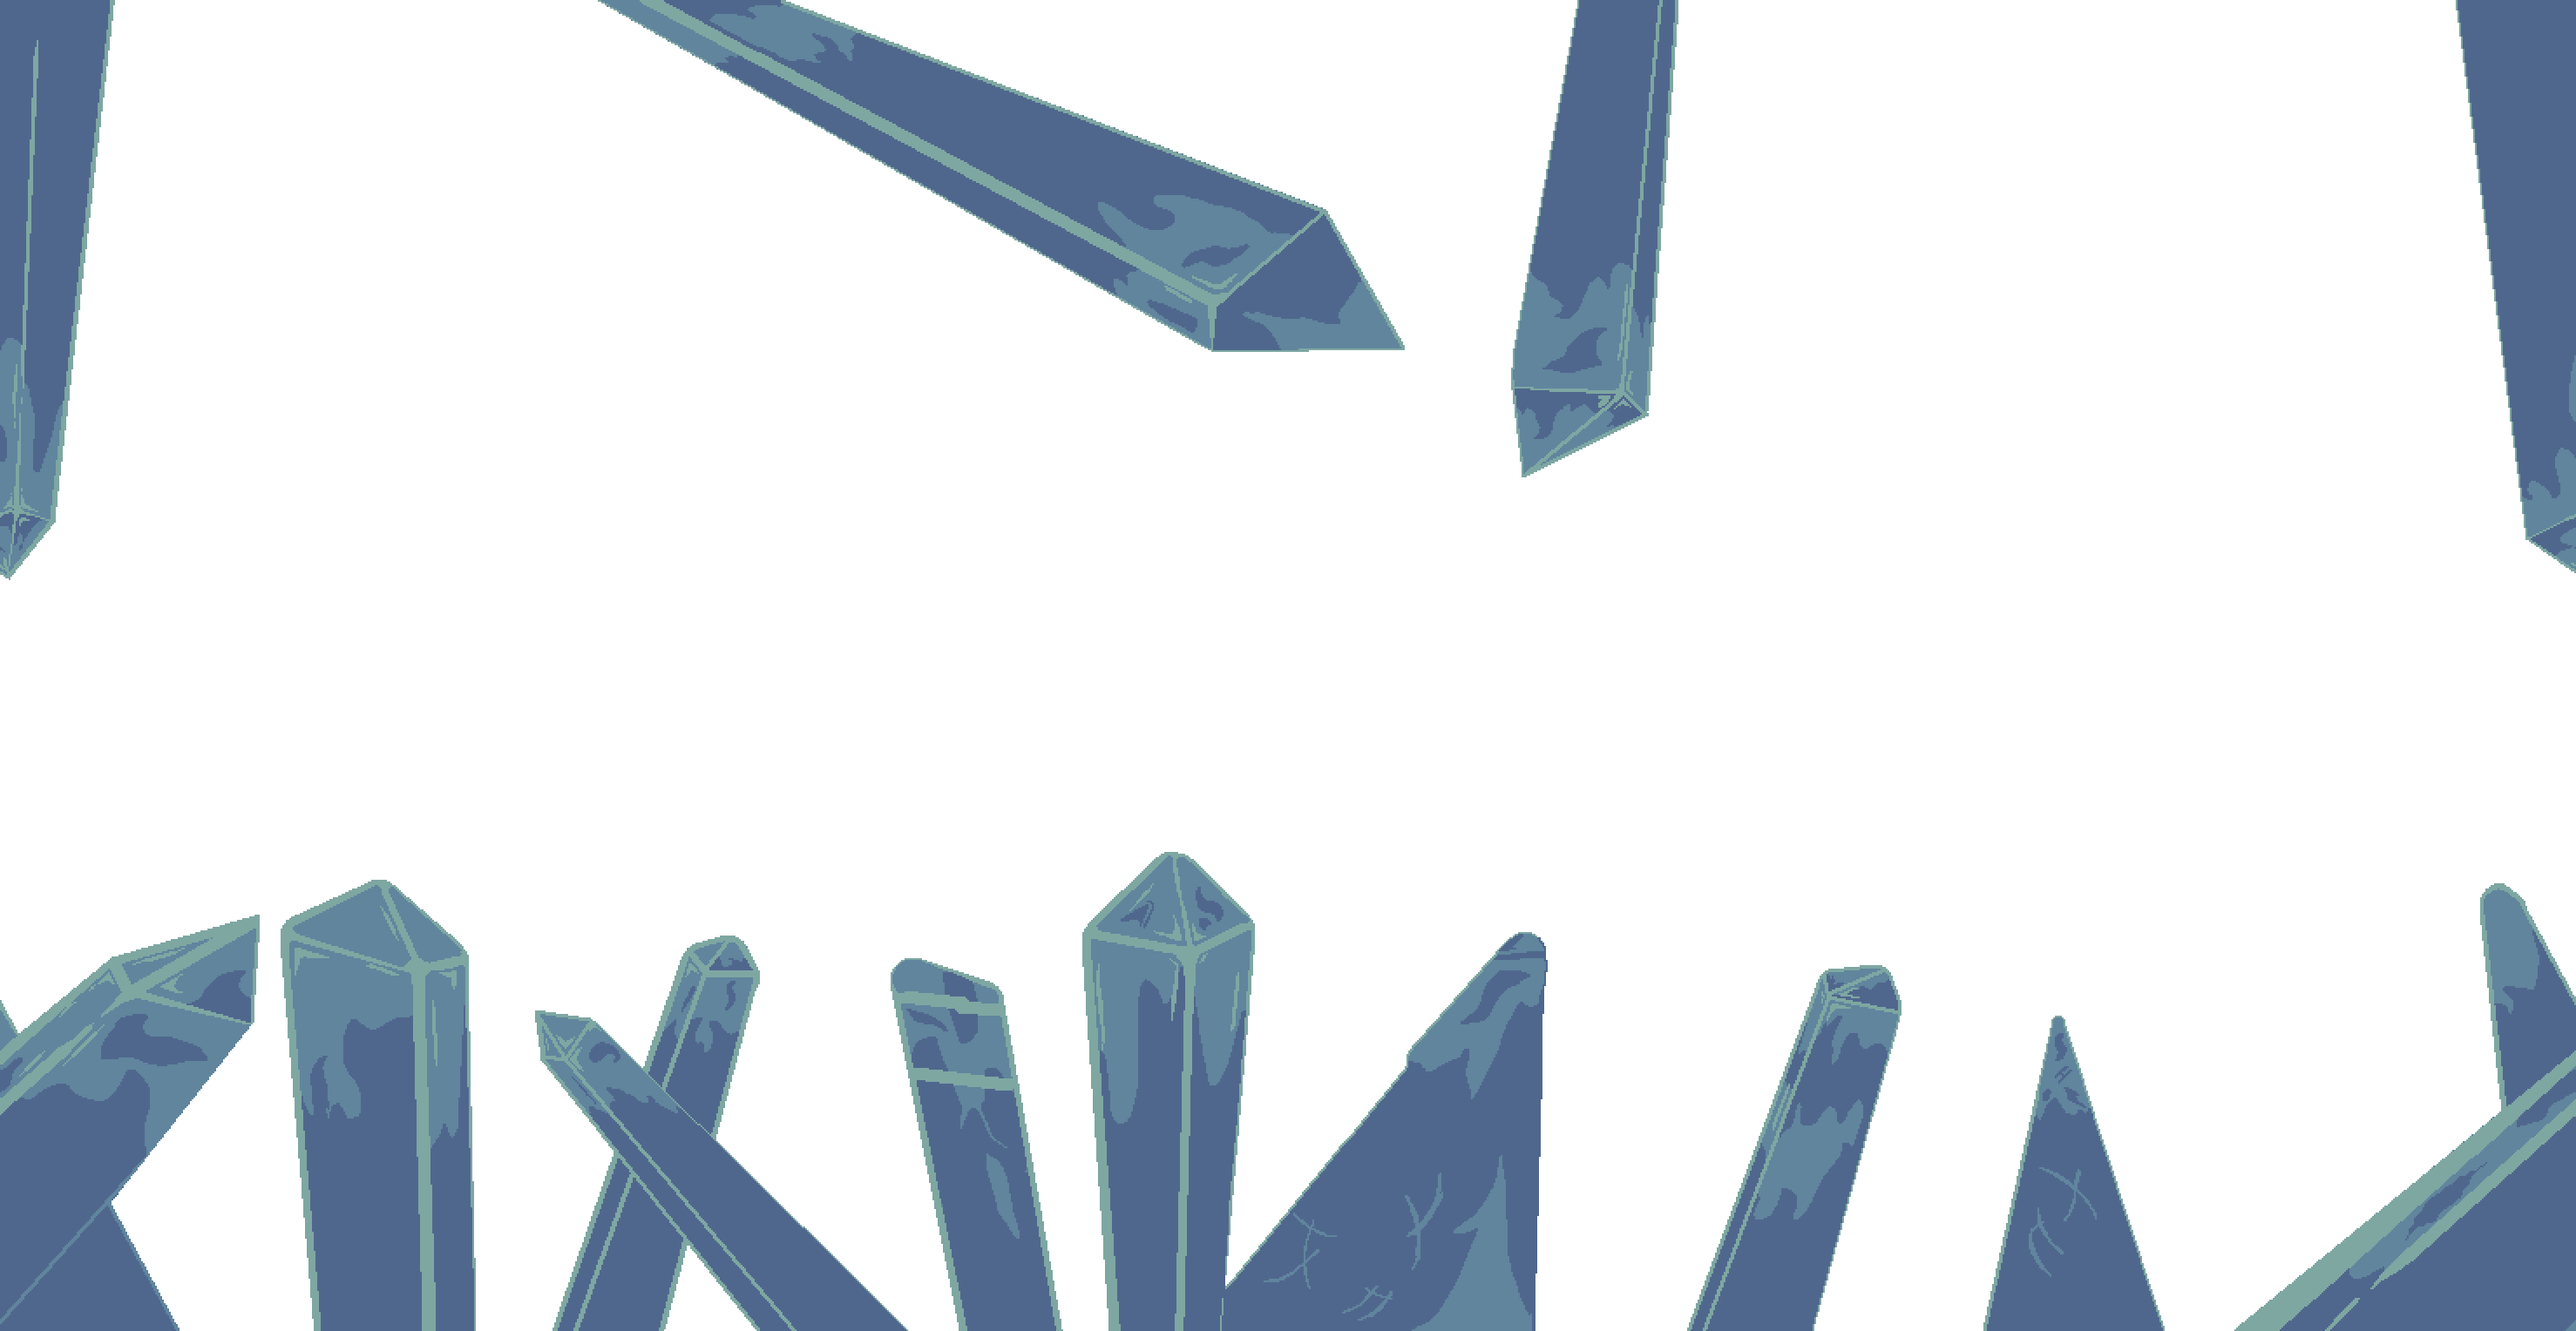
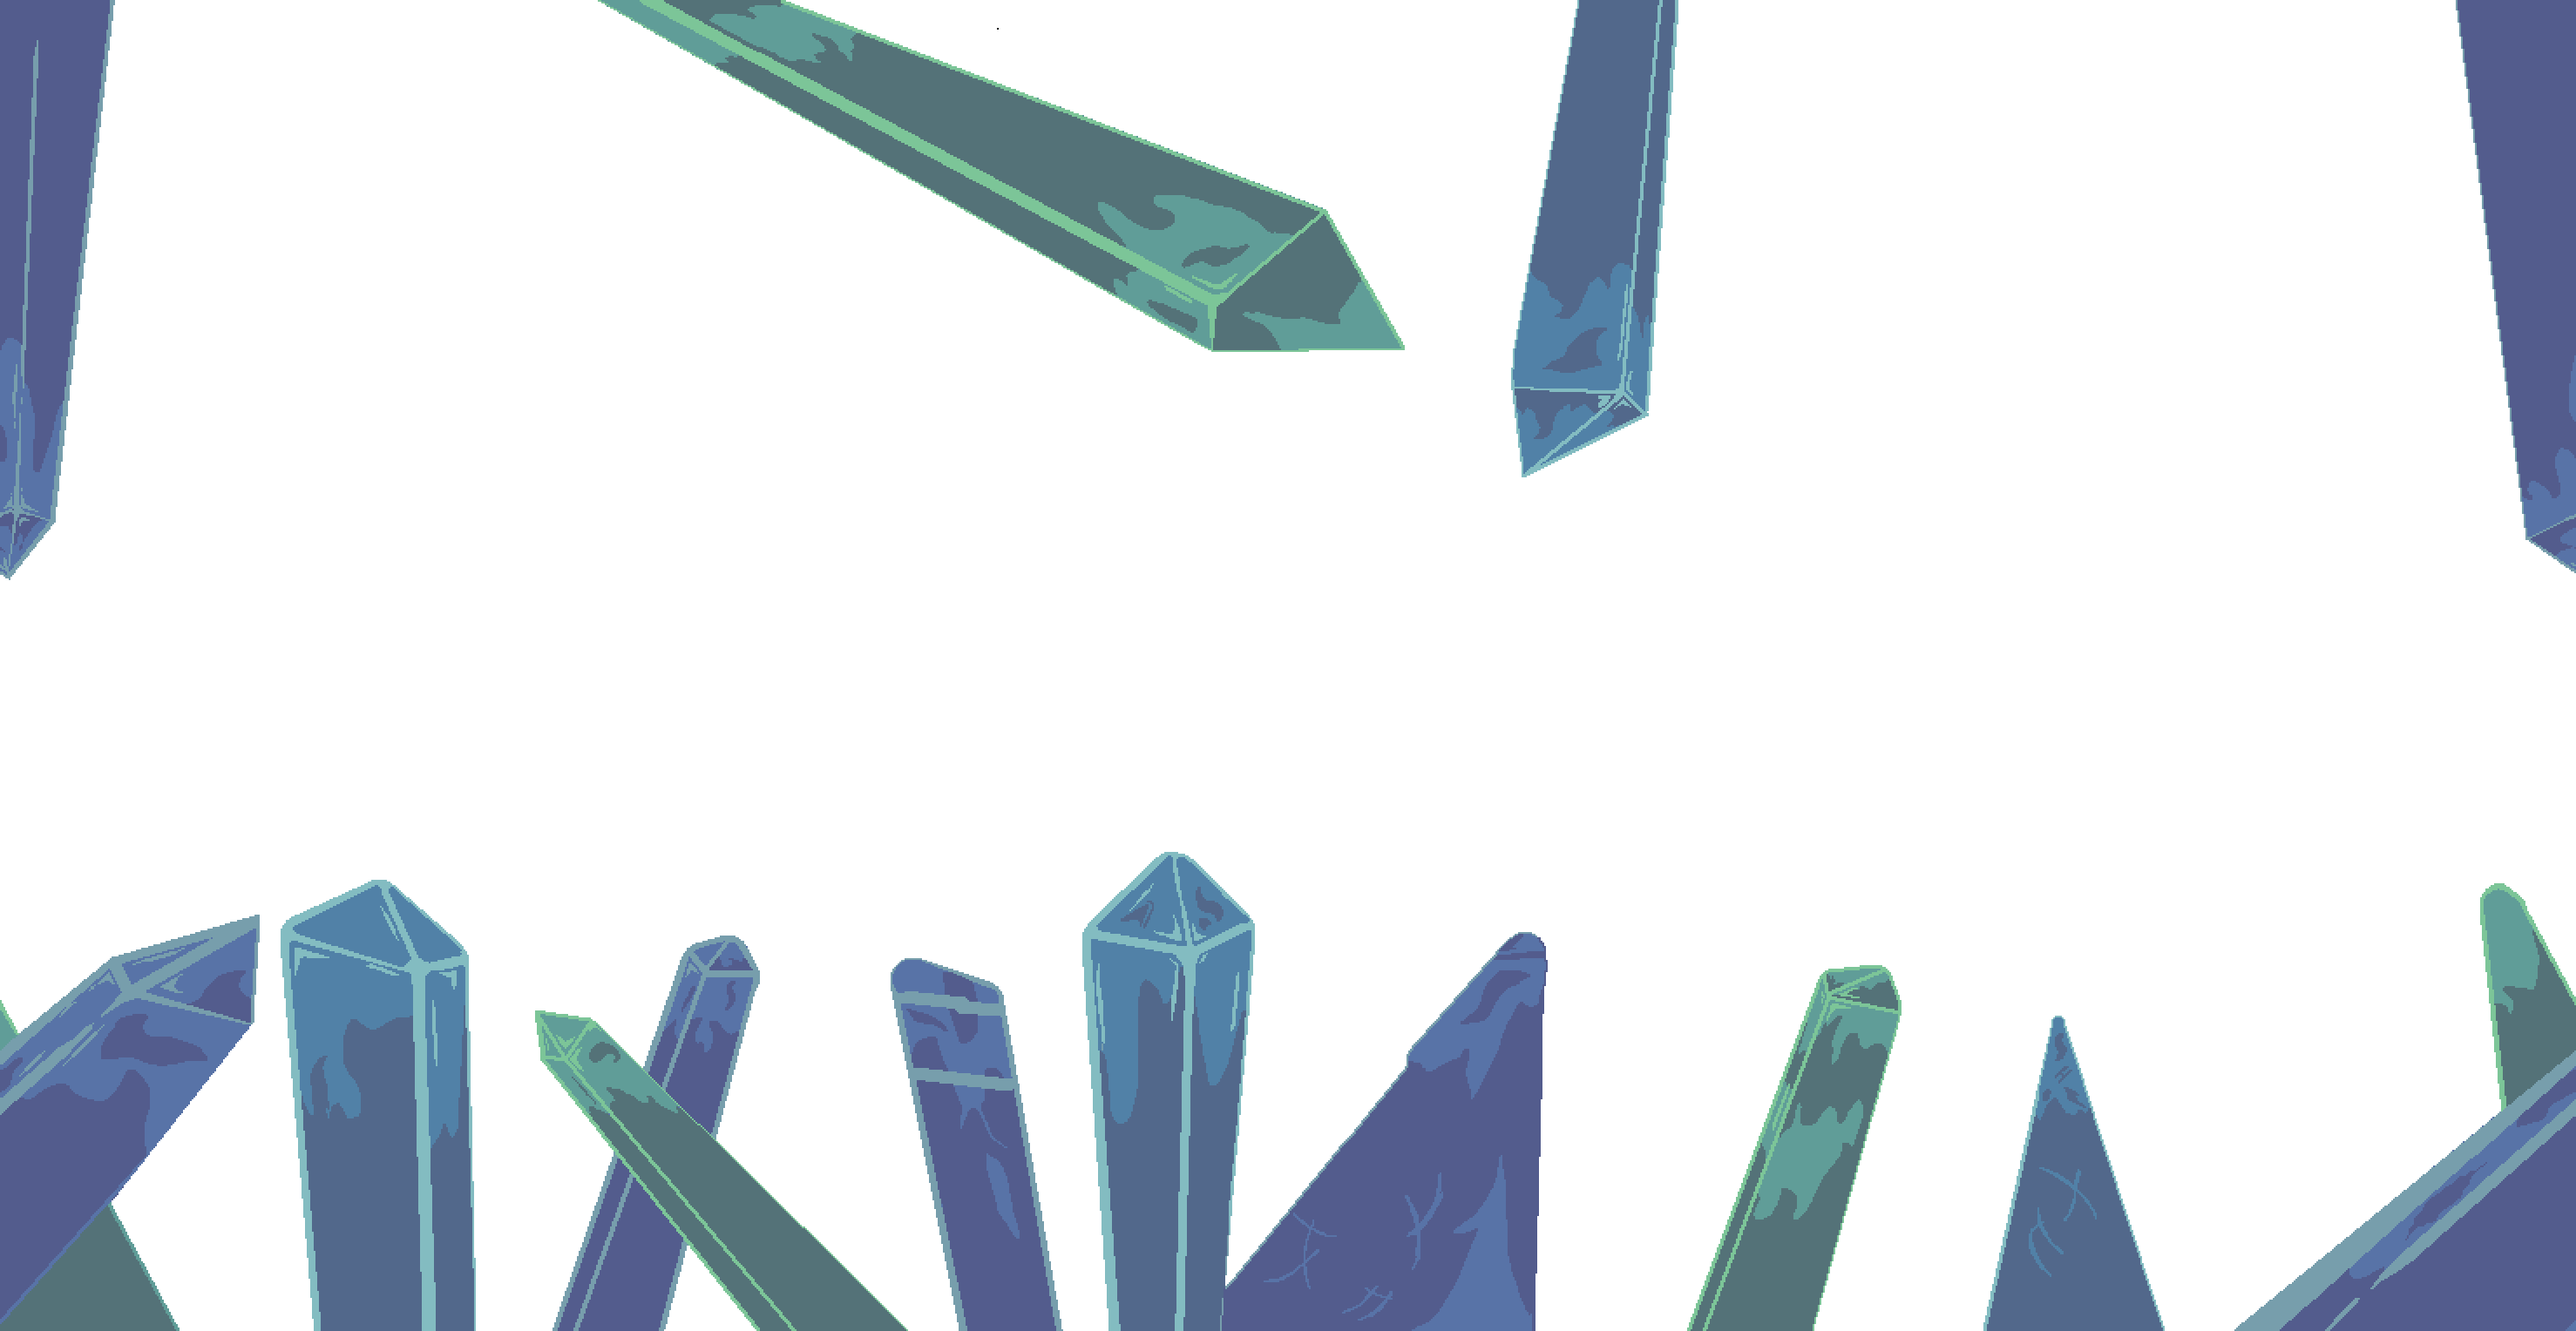
Suckulation + some vitric BG experimentation

diff --git a/Backgrounds/VitricBackground.cs b/Backgrounds/VitricBackground.cs
@@ -58,7 +58,7 @@ namespace StarlightRiver
         private void LoadVitricBGSystems()
         {
             ForegroundParticles = new ParticleSystem("StarlightRiver/GUI/Assets/LightBig", UpdateForeground, 3);
-            BackgroundParticles = new ParticleSystem("StarlightRiver/GUI/Assets/LightBig", UpdateBackground, 3);
+            BackgroundParticles = new ParticleSystem("StarlightRiver/GUI/Assets/Holy", UpdateBackground, 1);
         }
 
         private static void UpdateForegroundBody(Particle particle)
@@ -68,10 +68,9 @@ namespace StarlightRiver
             particle.Position.X = particle.StoredPosition.X - Main.screenPosition.X + GetParallaxOffset(particle.StoredPosition.X, 0.25f) + (float)Math.Sin(particle.Timer / 400f * 6.28f) * 20;
             particle.Position.Y = particle.StoredPosition.Y - Main.screenPosition.Y + GetParallaxOffsetY(particle.StoredPosition.Y, 0.1f);
 
-            int factor = (int)(particle.Timer / 1800f * 100f);
-            particle.Color = new Color(155 + factor, 155 + factor, 255) * (particle.Timer / 1800f * 0.8f);
-            particle.Scale = (particle.Timer / 1800f * 1.2f);
-            particle.Rotation += 0.02f;
+            particle.Color = new Color(155 , 200 + (particle.GetHashCode() % 2 == 0 ? 55 : 0), 255) * (particle.Timer / 1800f * 0.8f);
+            particle.Scale = (particle.Timer / 1800f * 1.1f);
+            particle.Rotation += 0.015f;
         }
 
         private static void UpdateBackgroundBody(Particle particle)
@@ -80,7 +79,7 @@ namespace StarlightRiver
             particle.StoredPosition += particle.Velocity;
             particle.Position.X = particle.StoredPosition.X - Main.screenPosition.X + GetParallaxOffset(particle.StoredPosition.X, 0.5f) + (float)Math.Sin(particle.Timer / 400f * 6.28f) * 10;
             particle.Position.Y = particle.StoredPosition.Y - Main.screenPosition.Y + GetParallaxOffsetY(particle.StoredPosition.Y, 0.2f);
-            particle.Color = Color.White * (particle.Timer / 1800f * 0.5f);
+            particle.Color = Color.Lerp(Color.Red, Color.White, particle.Timer / 1800f);
             particle.Scale = (particle.Timer / 1800f * 0.8f);
             particle.Rotation += 0.02f;
         }
@@ -130,11 +129,11 @@ namespace StarlightRiver
                 for (int k = (int)(screenCenterX - basepoint.X) - (int)(Main.screenWidth * 1.5f); k <= (int)(screenCenterX - basepoint.X) + (int)(Main.screenWidth * 1.5f); k += 30)
                 {
                     Vector2 spawnPos = basepoint + new Vector2(2000 + Main.rand.Next(8000), 1800);
-                    if (Main.rand.Next(1200) == 0)
-                        BackgroundParticles.AddParticle(new Particle(new Vector2(0, basepoint.Y + 1550), new Vector2(0, Main.rand.NextFloat(-1.6f, -0.6f)), 0, 0, Color.White, 1800, spawnPos));
+                    if (Main.rand.Next(600) == 0)
+                        BackgroundParticles.AddParticle(new Particle(new Vector2(0, basepoint.Y + 1600), new Vector2(0, Main.rand.NextFloat(-1.6f, -0.6f)), 0, 0, Color.White, 1800, spawnPos));
 
-                    if (Main.rand.Next(1000) == 0)
-                        ForegroundParticles.AddParticle(new Particle(new Vector2(0, basepoint.Y + 1550), new Vector2(0, Main.rand.NextFloat(-1.6f, -0.6f)), 0, 0, Color.White, 1800, spawnPos));
+                    if (Main.rand.Next(1400) == 0)
+                        ForegroundParticles.AddParticle(new Particle(new Vector2(0, basepoint.Y + 1600), new Vector2(0, Main.rand.NextFloat(-1.6f, -0.6f)), 0, 0, Color.White, 1800, spawnPos));
                 }
 
                 Main.spriteBatch.End();

diff --git a/Projectiles/Ability/Purifier.cs b/Projectiles/Ability/Purifier.cs
@@ -48,8 +48,8 @@ namespace StarlightRiver.Projectiles.Ability
                 projectile.netUpdate = true;
             }
 
-            if (projectile.timeLeft == 900) //activate shader on start
-                Filters.Scene.Activate("PurityFilter", projectile.position).GetShader().UseDirection(new Vector2(0.1f, 0.1f));
+            //if (projectile.timeLeft == 900) //activate shader on start
+                //Filters.Scene.Activate("PurityFilter", projectile.position).GetShader().UseDirection(new Vector2(0.1f, 0.1f));
             
             else if (projectile.timeLeft >= 800) //grow       
                 projectile.ai[0] += 3;
@@ -57,7 +57,7 @@ namespace StarlightRiver.Projectiles.Ability
             else if (projectile.timeLeft < 150) //shrink          
                 projectile.ai[0] -= 2;         
 
-            Filters.Scene["PurityFilter"].GetShader().UseProgress((projectile.ai[0] / 255) * 0.125f).UseIntensity((projectile.ai[0] / 255) * 0.006f);
+            //Filters.Scene["PurityFilter"].GetShader().UseProgress((projectile.ai[0] / 255) * 0.125f).UseIntensity((projectile.ai[0] / 255) * 0.006f);
 
             Dust.NewDust(projectile.Center - Vector2.One * 32, 32, 32, DustType<Dusts.Purify>()); //dusts around crown
 
@@ -92,7 +92,7 @@ namespace StarlightRiver.Projectiles.Ability
             {
                 if (Filters.Scene["PurityFilter"].IsActive())
                 {
-                    Filters.Scene.Deactivate("PurityFilter");
+                    //Filters.Scene.Deactivate("PurityFilter");
                 }
             }
         }
@@ -112,6 +112,8 @@ namespace StarlightRiver.Projectiles.Ability
                 //walls
                 if (target.wall == WallID.Stone || target.wall == WallID.EbonstoneUnsafe || target.wall == WallID.CrimstoneUnsafe || target.wall == WallID.PearlstoneBrickUnsafe) { target.wall = (ushort)WallType<WallStonePure>(); SpawnDust(x, y); }
                 if (target.wall == WallID.GrassUnsafe || target.wall == WallID.CorruptGrassUnsafe || target.wall == WallID.CrimsonGrassUnsafe || target.wall == WallID.HallowedGrassUnsafe) { target.wall = (ushort)WallType<WallGrassPure>(); SpawnDust(x, y); }
+
+                WorldGen.TileFrame(x, y);
             }
         }
 
@@ -130,6 +132,8 @@ namespace StarlightRiver.Projectiles.Ability
                 //walls
                 if (target.wall == WallType<WallStonePure>()) { target.wall = WallID.Stone; SpawnDust(x, y); }
                 if (target.wall == WallType<WallGrassPure>()) { target.wall = WallID.GrassUnsafe; SpawnDust(x, y); }
+
+
             }
         }
 

diff --git a/Items/Vitric/VitricAxe.cs b/Items/Vitric/VitricAxe.cs
@@ -35,10 +35,10 @@ namespace StarlightRiver.Items.Vitric
 
         public override bool UseItem(Player player)
         {
-            foreach (Item item in Main.item.Where(item => Vector2.Distance(item.Center, player.Center) <= 120 && item.active))
+            foreach (Item item in Main.item.Where(item => Vector2.Distance(item.Center, player.Center) <= 200 && item.active))
             {
-                item.velocity = Vector2.Normalize(item.Center - player.Center) * -2;
-                Dust.NewDust(item.Center, 4, 4, DustType<Dusts.Air>());
+                item.velocity = Vector2.Normalize(item.Center - player.Center) * -6;
+                Dust.NewDustPerfect(item.Center, DustType<Dusts.Air>(), Vector2.Normalize(item.Center - player.Center) * -1);
             }
             return true;
         }

diff --git a/Items/Vitric/VitricHammer.cs b/Items/Vitric/VitricHammer.cs
@@ -35,10 +35,10 @@ namespace StarlightRiver.Items.Vitric
 
         public override bool UseItem(Player player)
         {
-            foreach (Item item in Main.item.Where(item => Vector2.Distance(item.Center, player.Center) <= 120 && item.active))
+            foreach (Item item in Main.item.Where(item => Vector2.Distance(item.Center, player.Center) <= 200 && item.active))
             {
-                item.velocity = Vector2.Normalize(item.Center - player.Center) * -2;
-                Dust.NewDust(item.Center, 4, 4, DustType<Dusts.Air>());
+                item.velocity = Vector2.Normalize(item.Center - player.Center) * -6;
+                Dust.NewDustPerfect(item.Center, DustType<Dusts.Air>(), Vector2.Normalize(item.Center - player.Center) * -1);
             }
             return true;
         }

diff --git a/Items/Vitric/VitricPick.cs b/Items/Vitric/VitricPick.cs
@@ -35,10 +35,10 @@ namespace StarlightRiver.Items.Vitric
 
         public override bool UseItem(Player player)
         {
-            foreach (Item item in Main.item.Where(item => Vector2.Distance(item.Center, player.Center) <= 120 && item.active))
+            foreach (Item item in Main.item.Where(item => Vector2.Distance(item.Center, player.Center) <= 200 && item.active))
             {
-                item.velocity = Vector2.Normalize(item.Center - player.Center) * -2;
-                Dust.NewDust(item.Center, 4, 4, DustType<Dusts.Air>());
+                item.velocity = Vector2.Normalize(item.Center - player.Center) * -6;
+                Dust.NewDustPerfect(item.Center, DustType<Dusts.Air>(), Vector2.Normalize(item.Center - player.Center) * -1);
             }
             return true;
         }

diff --git a/Items/Debug/DebugItems.cs b/Items/Debug/DebugItems.cs
@@ -97,8 +97,6 @@ namespace StarlightRiver.Items.Debug
 
         public override bool UseItem(Player player)
         {
-            StarlightWorld.DesertOpen = true;
-            player.GetHandler().Lock<Abilities.Content.ForbiddenWinds.Dash>();
             return true;
         }
 
